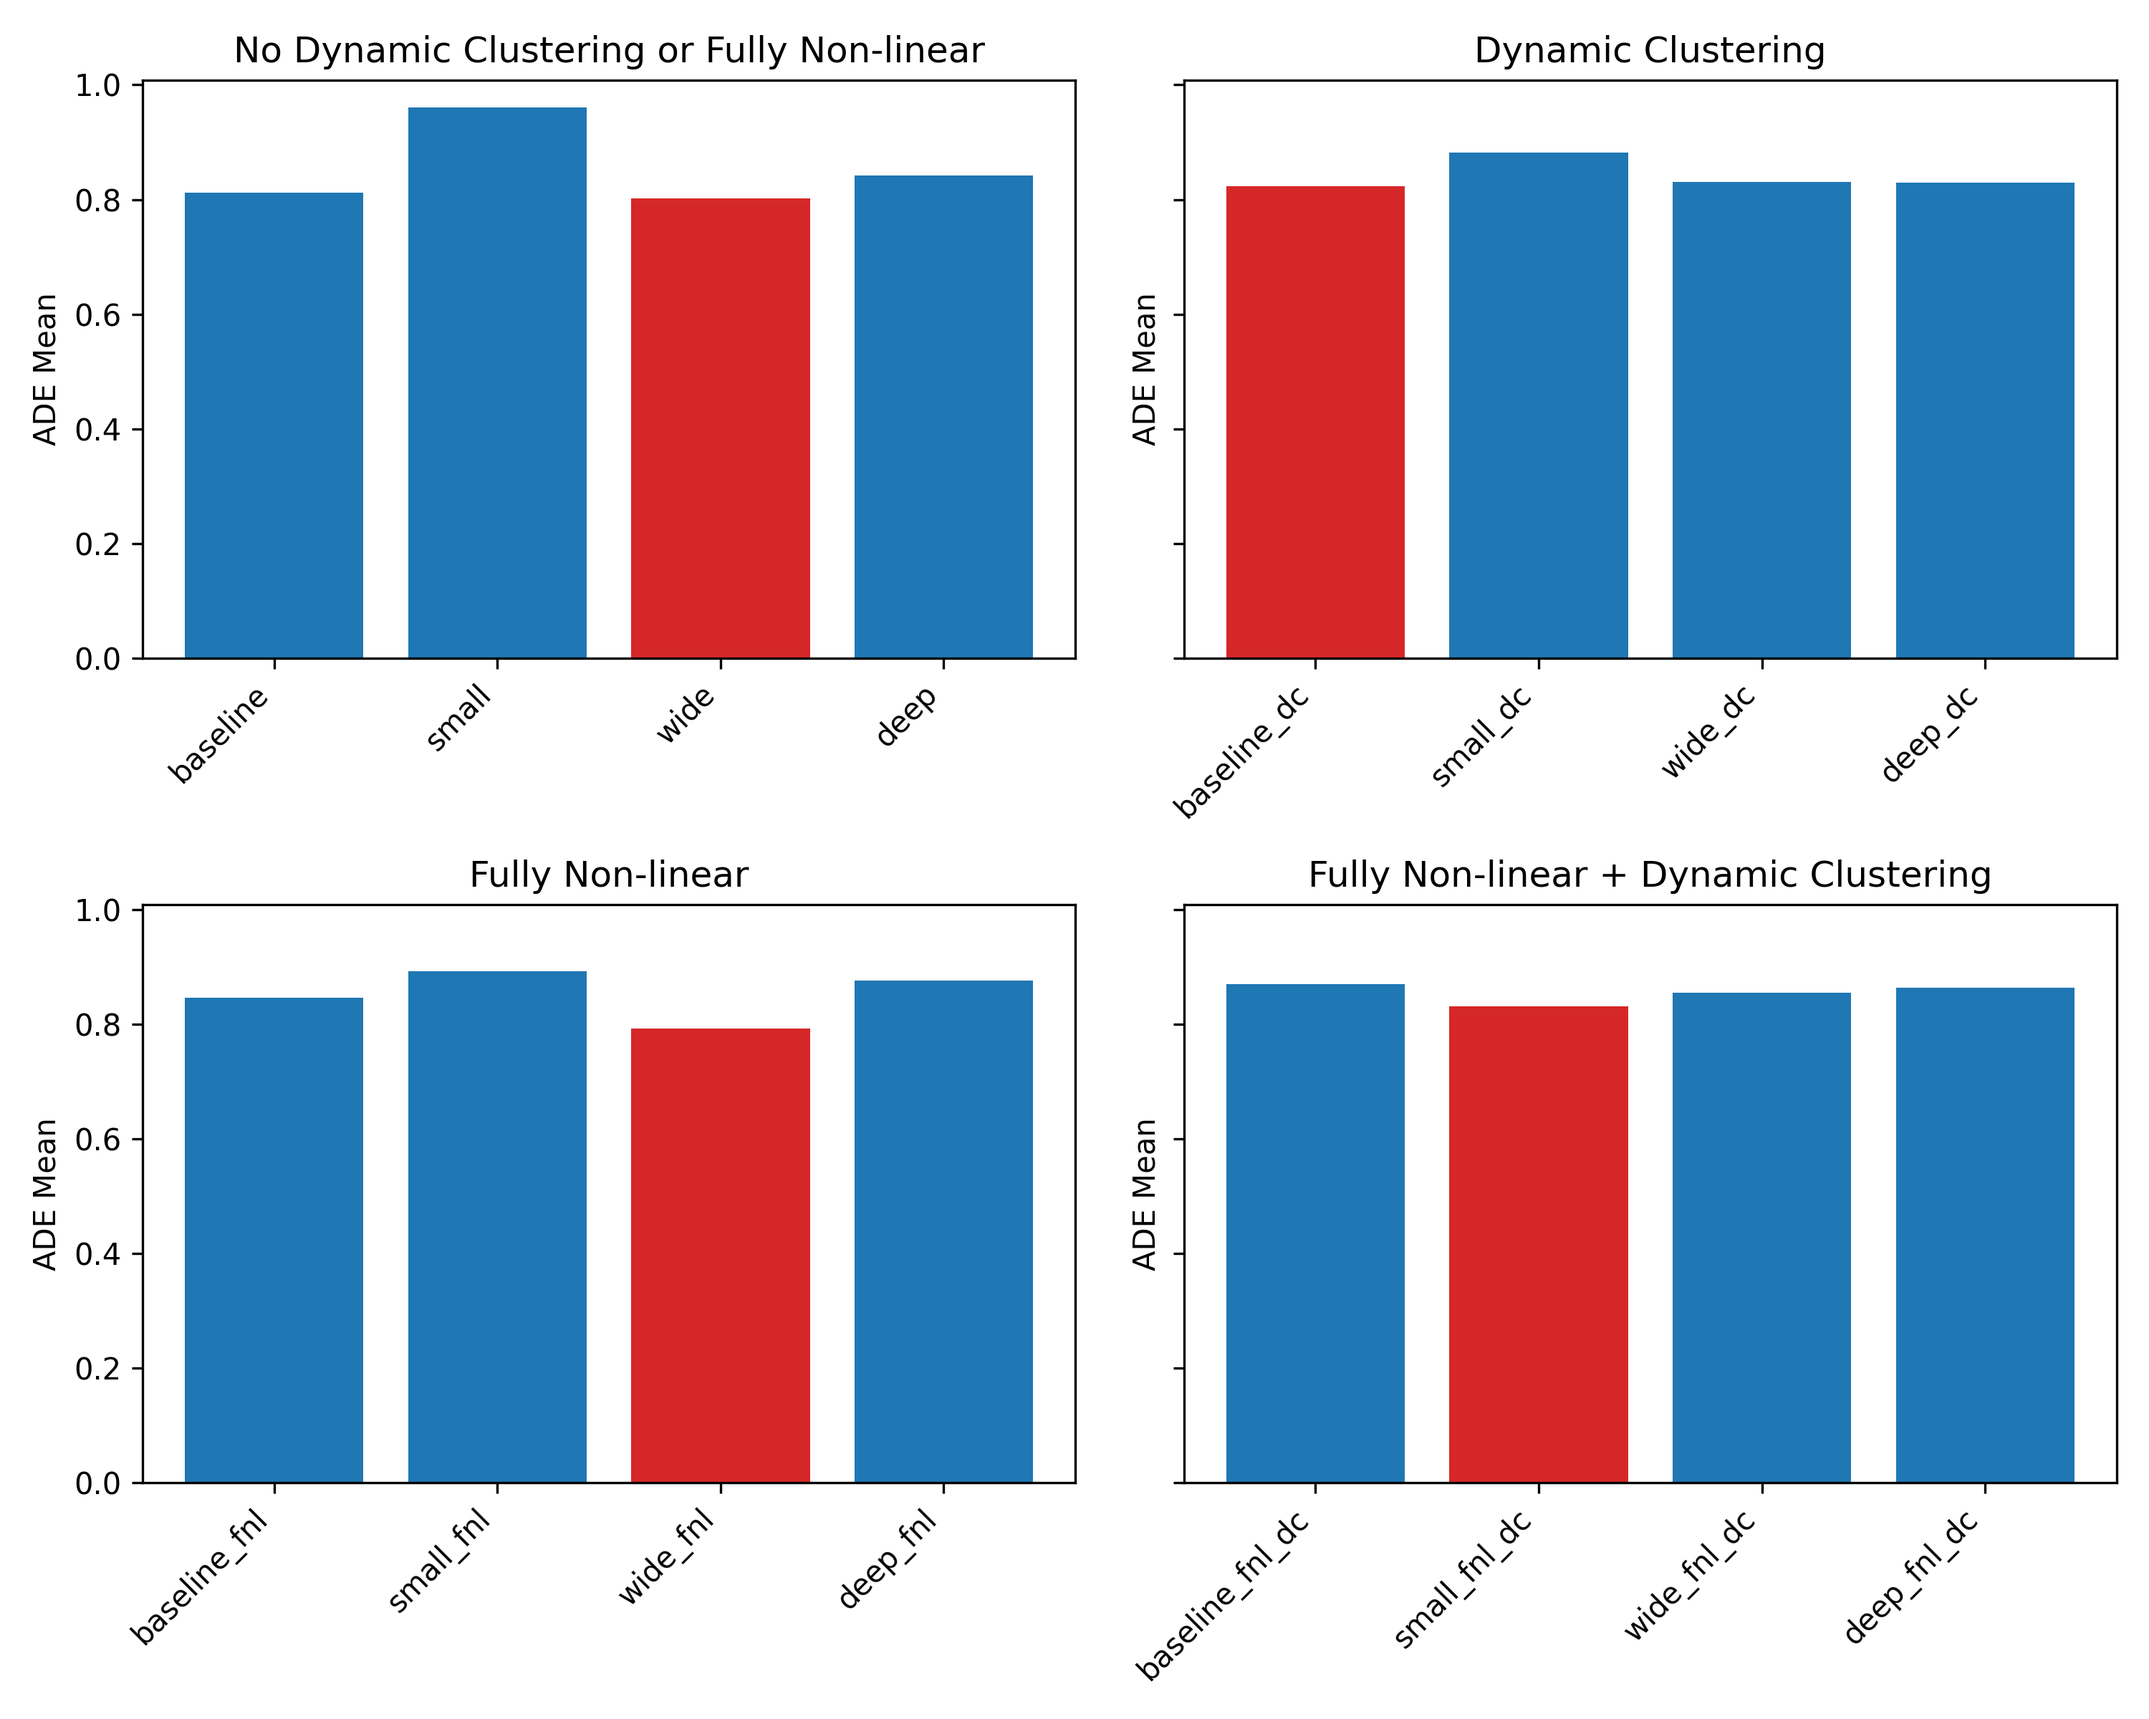
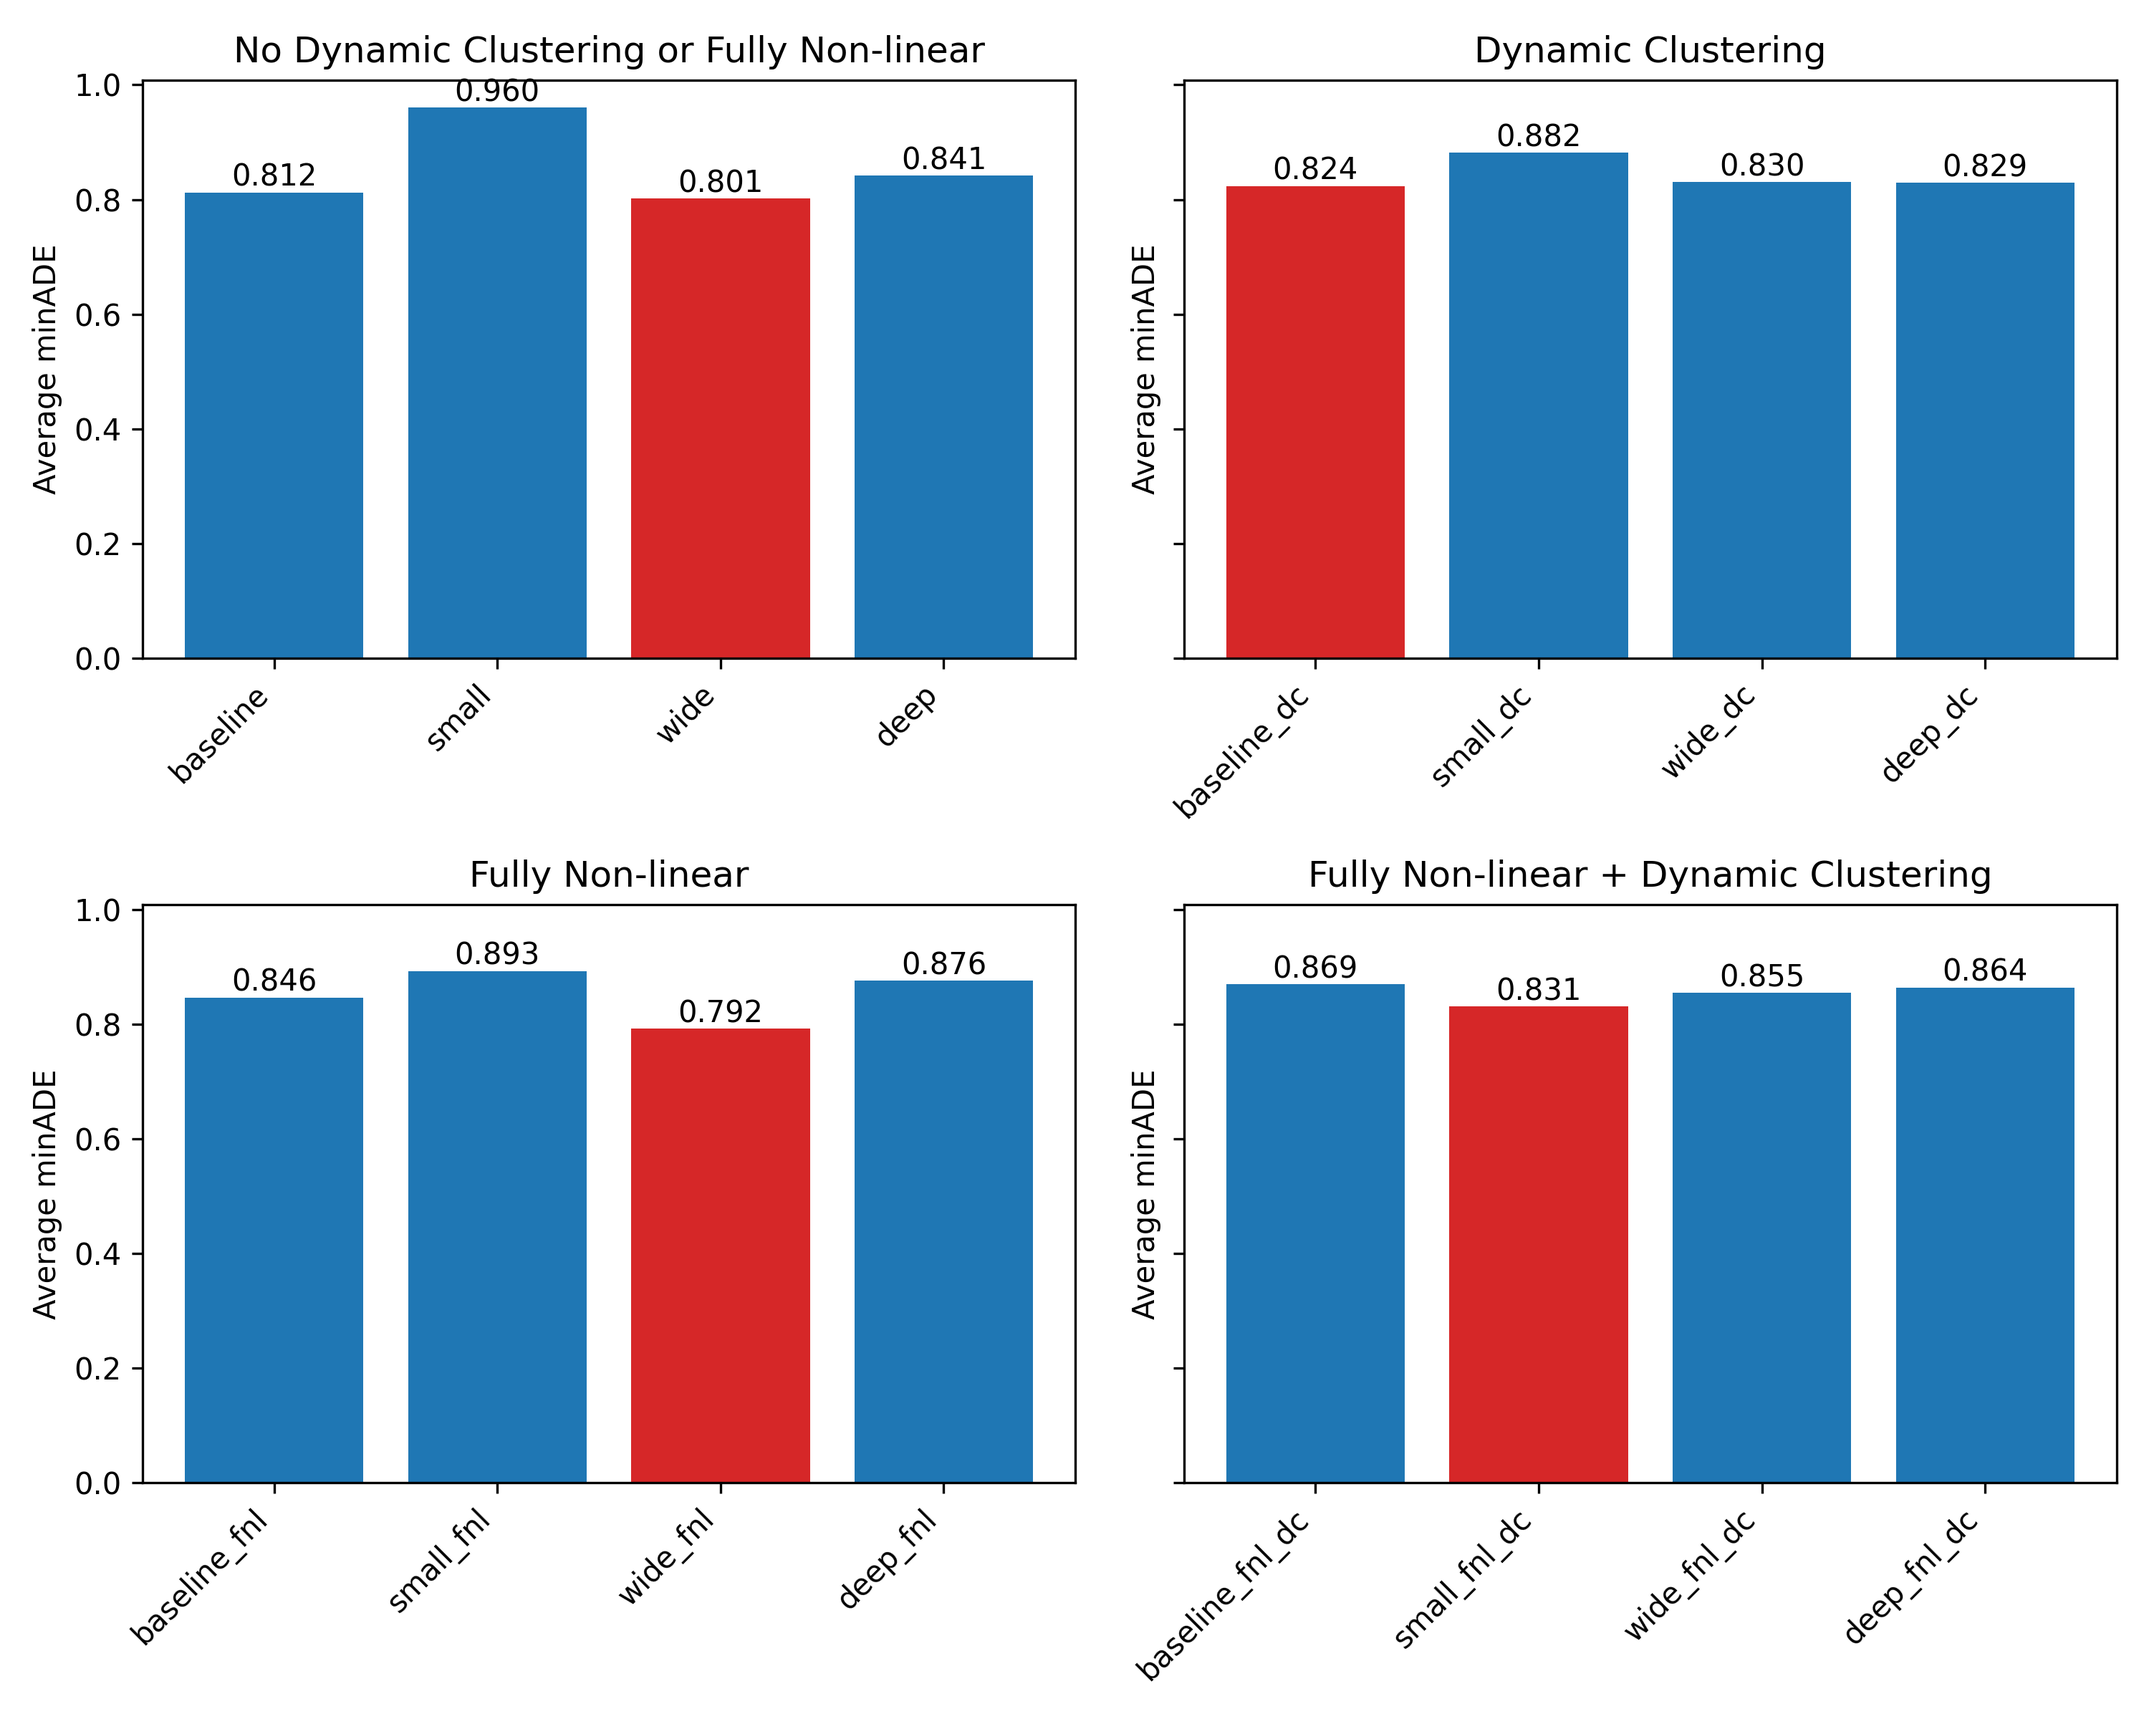
Add code for plotting results

diff --git a/plot_results.py b/plot_results.py
@@ -1,30 +1,80 @@
 #!/usr/bin/env python3
 
-import sys
+import os
 import pandas as pd
 import matplotlib.pyplot as plt
 
-csv_path="metrics.csv"
-out_path="ade_mean_bar.png"
 
-# Read the CSV; index is the first column (args.output_name)
-df = pd.read_csv(csv_path, index_col=0)
+def plot_min_ade_all(metric, csv_path="metrics.csv", out_path="images/ade_mean_2x2.png"):
+    os.makedirs("images", exist_ok=True)
 
-# Get x labels (row index) and ade_mean values
-x_labels = df.index.to_list()
-ade_values = df["ade_mean"].values
+    # Read the CSV file, index is the first column
+    df = pd.read_csv(csv_path, index_col=0)
 
-# Make bar chart
-fig, ax = plt.subplots(figsize=(8, 4))
-x = range(len(ade_values))
-ax.bar(x, ade_values)  # default matplotlib colors
+    idx = df.index
 
-ax.set_xticks(x)
-ax.set_xticklabels(x_labels, rotation=45, ha="right")
-ax.set_ylabel("ADE Mean")
-ax.set_xlabel("Configuration")
-ax.set_title("ADE Mean per Configuration")
-fig.tight_layout()
+    # Figure out the base model names in the order they appear
+    base_order = []
+    for name in idx:
+        base = name.split("_")[0]
+        if base not in base_order:
+            base_order.append(base)
 
-# Save to file (and/or show)
-fig.savefig(out_path, dpi=300)
+    def group_df(mask):
+        """Return df for a mask, sorted by base model order."""
+        sub = df[mask].copy()
+        names_sorted = sorted(sub.index, key=lambda n: base_order.index(n.split("_")[0]))
+        return sub.loc[names_sorted]
+
+    # Masks for each group
+    base_mask    = ~idx.str.contains("_")
+    dc_mask      = idx.str.endswith("_dc") & ~idx.str.endswith("_fnl_dc")
+    fnl_mask     = idx.str.endswith("_fnl") & ~idx.str.endswith("_fnl_dc")
+    fnl_dc_mask  = idx.str.endswith("_fnl_dc")
+
+    groups = [
+        ("No Dynamic Clustering or Fully Non-linear", group_df(base_mask)),
+        ("Dynamic Clustering", group_df(dc_mask)),
+        ("Fully Non-linear", group_df(fnl_mask)),
+        ("Fully Non-linear + Dynamic Clustering", group_df(fnl_dc_mask)),
+    ]
+
+    fig, axes = plt.subplots(2, 2, figsize=(10, 8), sharey=True)
+
+    for ax, (title, sub) in zip(axes.flat, groups):
+        if sub.empty:
+            ax.set_visible(False)
+            continue
+
+        x_labels = sub.index.to_list()
+        ade_values = sub[metric].values
+
+        # Index of the smallest value within this group
+        min_idx = ade_values.argmin()
+
+        # Colors (highlight min)
+        colors = ["C0"] * len(ade_values)
+        colors[min_idx] = "C3"
+
+        x = range(len(ade_values))
+        bars = ax.bar(x, ade_values, color=colors)
+
+        ax.bar_label(bars, fmt='{:.3f}')
+
+        ax.set_xticks(x)
+        ax.set_xticklabels(x_labels, rotation=45, ha="right")
+
+        if metric == "ade_mean":
+            ax.set_ylabel("Average minADE")
+        elif metric == "fde_mean":
+            ax.set_ylabel("Average minFDE")
+        else:
+            raise ValueError
+
+        ax.set_title(title)
+
+    fig.tight_layout()
+    fig.savefig(out_path, dpi=300)
+
+plot_min_ade_all("ade_mean", csv_path="metrics_sorted.csv", out_path="images/ade_mean_2x2.png")
+plot_min_ade_all("fde_mean", csv_path="metrics_sorted.csv", out_path="images/fde_mean_2x2.png")
